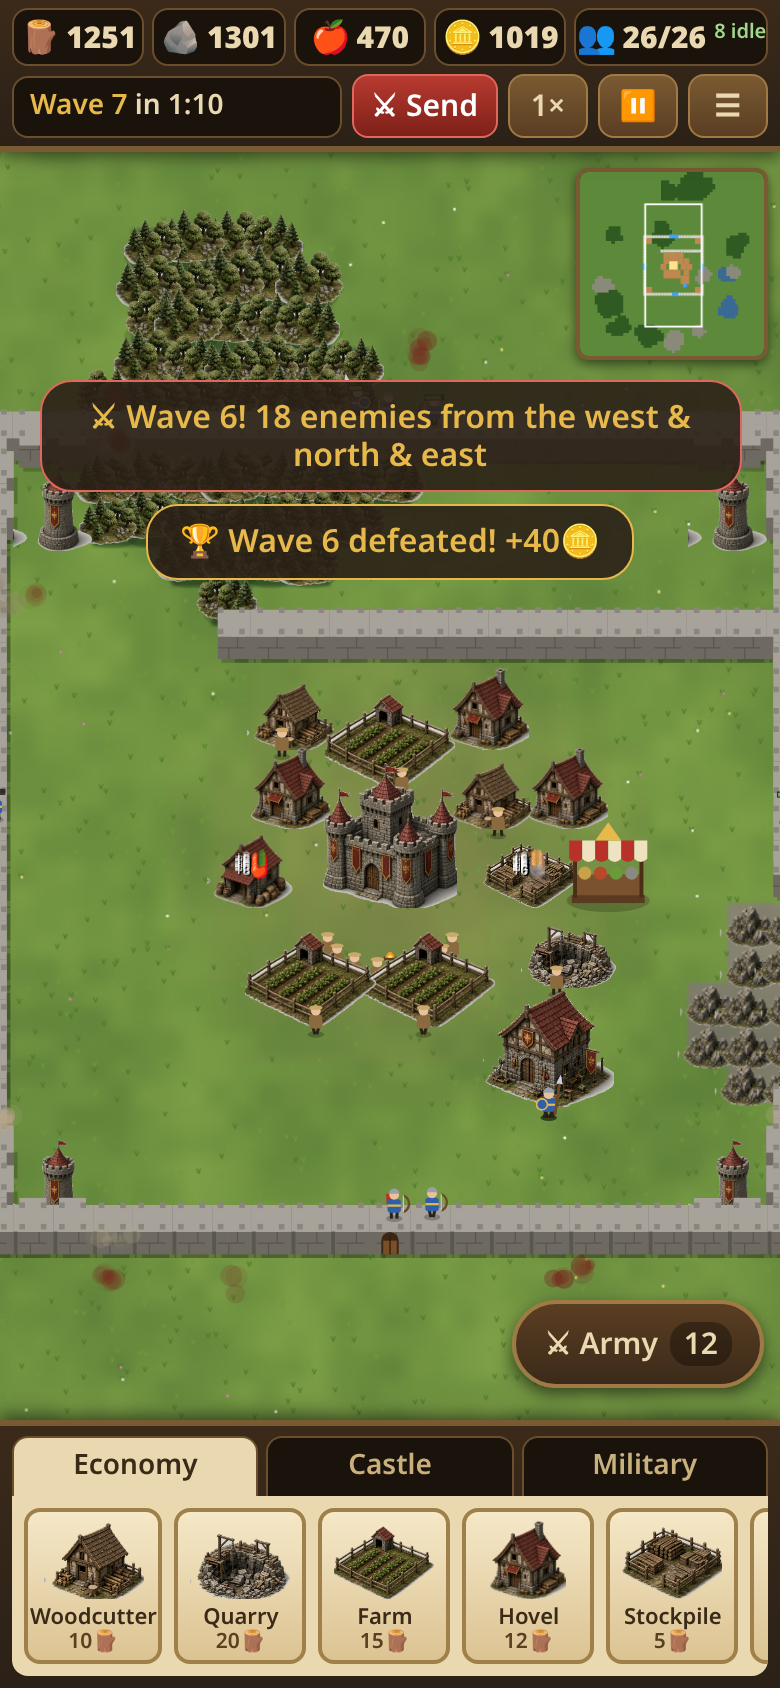
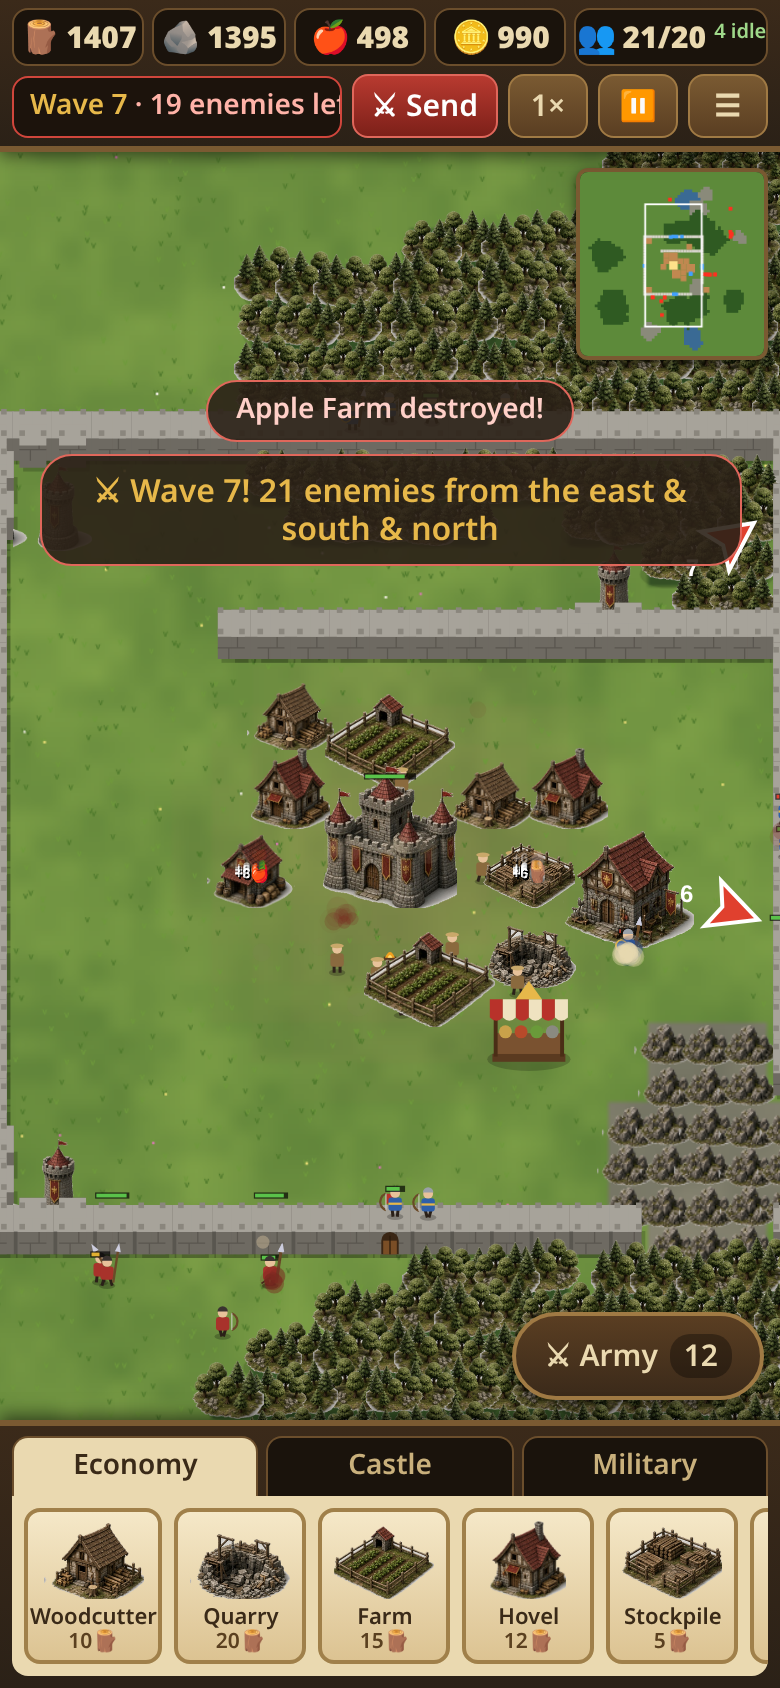
v1.0.2: keep Army/Undo buttons above the bottom bar

diff --git a/game.js b/game.js
@@ -1,6 +1,6 @@
 'use strict';
 (() => {
-const VERSION = '1.0.1';
+const VERSION = '1.0.2';
 const T = 32, N = 64, SAVE_KEY = 'htk-save-v1', TUT_KEY = 'htk-tut-done';
 const $ = id => document.getElementById(id);
 const cv = $('cv'), ctx = cv.getContext('2d');
@@ -900,6 +900,9 @@ function start() {
 
 // ---------- boot ----------
 addEventListener('resize', resize); resize();
+const fitFabs = () => { const h = innerHeight - $('bottom').getBoundingClientRect().top; const land = matchMedia('(orientation:landscape) and (max-height:520px)').matches;
+  for (const id of ['btn-army','btn-undo']) $(id).style.bottom = land ? '' : (h + 10) + 'px'; };
+if (window.ResizeObserver) new ResizeObserver(fitFabs).observe($('bottom')); addEventListener('resize', fitFabs);
 document.addEventListener('gesturestart', e => e.preventDefault());
 loadAssets().then(() => { showTitle(); requestAnimationFrame(frame); });
 if ('serviceWorker' in navigator && location.protocol !== 'file:') {

diff --git a/sw.js b/sw.js
@@ -1,4 +1,4 @@
-const VERSION = 'htk-v1.0.1';
+const VERSION = 'htk-v1.0.2';
 const FILES = ['./', 'index.html', 'style.css', 'game.js', 'manifest.webmanifest', 'icons/icon-180.png', 'icons/icon-192.png', 'icons/icon-512.png',
   ...['keep','stockpile','granary','woodcutter','quarry','farm','house','barracks','tower','trees','rock','gate'].map(n => 'assets/' + n + '.png')];
 self.addEventListener('install', e => { e.waitUntil(caches.open(VERSION).then(c => c.addAll(FILES)).then(() => self.skipWaiting())); });
